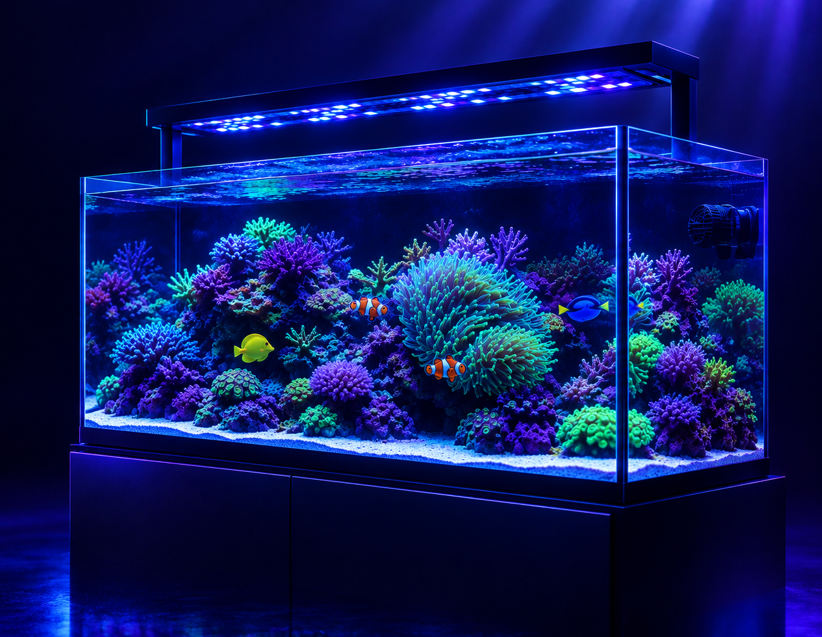
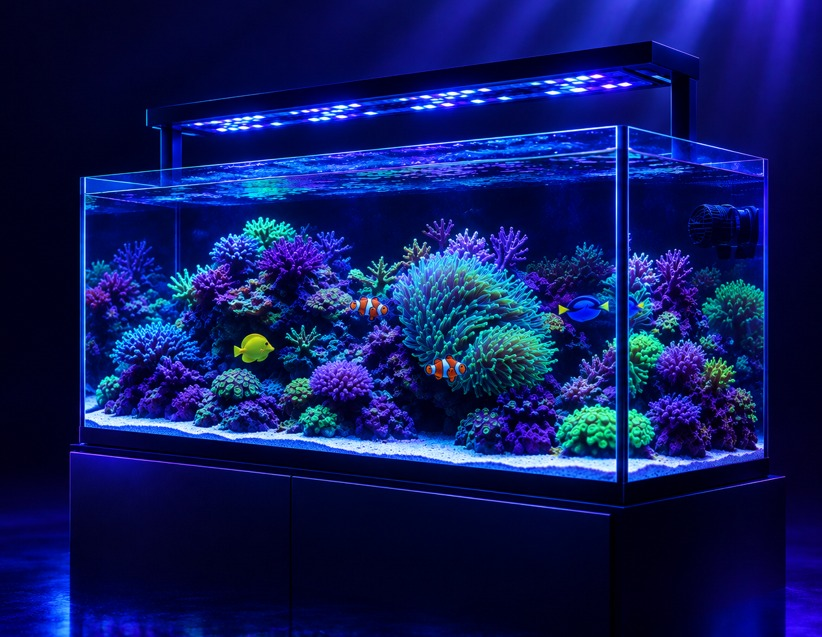
Descrição ao clicar na imagem
Quando clicar em cima das imagens aparece a descrição de cada um.

diff --git a/index.html b/index.html
@@ -26,7 +26,7 @@
       --text-white: #ffffff;     /* Texto Principal Branco */
       --text-gray: #a0a0a0;      /* Texto Secundário Cinza */
       --font-serif: 'Georgia', serif;
-      --font-sans: 'Georgia', sans-serif;
+      --font-sans: 'Montserrat', Arial, sans-serif;
     }
 
     * {
@@ -202,7 +202,7 @@
     }
 
     /* ==========================================
-       GALERIA DE PEIXES E CORAIS
+       GALERIA: TUDO PARA SEU AQUÁRIO MARINHO
        ========================================== */
     .gallery-section {
       max-width: 1100px;
@@ -232,16 +232,22 @@
     }
 
     .gallery-card {
+      display: block;
       background-color: var(--card-bg);
       border-radius: 8px;
       overflow: hidden;
       border: 1px solid rgba(255, 255, 255, 0.05);
-      transition: transform 0.3s ease;
+      transition: transform 0.3s ease, border-color 0.3s ease;
     }
 
     .gallery-card:hover {
       transform: translateY(-5px);
       border-color: var(--accent-blue);
+    }
+
+    .gallery-card:focus-visible {
+      outline: 2px solid var(--accent-blue);
+      outline-offset: 3px;
     }
 
     .gallery-card img {
@@ -269,6 +275,27 @@
       font-size: 1.1rem;
       color: var(--text-white);
       margin-top: 5px;
+    }
+
+    .gallery-desc {
+      font-size: 0.85rem;
+      color: var(--text-gray);
+      line-height: 1.5;
+      margin-top: 8px;
+    }
+
+    .gallery-more {
+      display: inline-block;
+      margin-top: 12px;
+      font-size: 0.8rem;
+      font-weight: 700;
+      color: var(--accent-blue);
+      letter-spacing: 0.5px;
+      transition: color 0.3s ease;
+    }
+
+    .gallery-card:hover .gallery-more {
+      color: #60a5fa;
     }
 
     /* ==========================================
@@ -469,7 +496,33 @@
         padding: 25px;
       }
     }
-  </style>
+  
+    button.gallery-card { width:100%; color:inherit; font:inherit; cursor:pointer; text-align:inherit; }
+    .gallery-info {display:block;} .gallery-tag,.gallery-name,.gallery-desc {display:block;}
+    .gallery-card {display:flex!important; flex-direction:column;} .gallery-info {flex:1;}
+    .gallery-tag,.gallery-more {color:#78b6ff;} .gallery-desc {color:#b9c3d1;}
+    button.dot {border:0;padding:0;} a:focus-visible,button:focus-visible {outline:3px solid #8bc4ff;outline-offset:4px;}
+    .top-header {padding-left:190px;padding-right:190px;}
+    .product-dialog {background:#101722;color:#f4f7fc;border:1px solid #334155;border-radius:20px;padding:0;width:min(880px,calc(100% - 28px));max-height:calc(100dvh - 32px);margin:auto;box-shadow:0 24px 90px #000a;}
+    .product-dialog::backdrop {background:#000b;backdrop-filter:blur(5px);}
+    body.dialog-open {overflow:hidden;}
+    .dialog-header {position:sticky;top:0;z-index:1;background:#101722;display:flex;gap:16px;align-items:center;justify-content:space-between;padding:18px 24px;border-bottom:1px solid #ffffff18;}
+    .dialog-header span {color:#8bc4ff;font-size:.8rem;letter-spacing:.08em;text-transform:uppercase;}
+    .dialog-close {border:1px solid #506076;background:#1c293c;color:white;padding:10px 16px;border-radius:24px;cursor:pointer;font:inherit;flex-shrink:0;}
+    .dialog-content {display:grid;grid-template-columns:minmax(0,.85fr) minmax(0,1.15fr);gap:28px;padding:26px;}
+    .dialog-image {width:100%;max-height:380px;object-fit:cover;border-radius:12px;background:#050505;}
+    .dialog-copy {min-width:0;} .dialog-copy h2 {font-family:var(--font-serif);font-size:1.75rem;line-height:1.25;margin-bottom:16px;}
+    .dialog-copy p {color:#c8d3e2;margin-bottom:16px;} .dialog-copy h3 {font-size:.94rem;margin:20px 0 10px;}
+    .dialog-copy ul {padding-left:20px;color:#c8d3e2;} .dialog-copy li {margin:8px 0;}
+    .dialog-note {background:#17263a;border-left:3px solid #71b5ff;border-radius:6px;padding:12px;font-size:.82rem;margin-top:20px;}
+    .dialog-contact {display:inline-flex;align-items:center;justify-content:center;margin-top:8px;padding:12px 18px;background:#2563eb;color:white;border-radius:24px;font-size:.9rem;font-weight:600;}
+    .gallery-card img {background:#0b192b;} .contact-note {color:#b6c1d1;font-size:.8rem;}
+    @media(max-width:768px){.top-header {padding:16px;}.about-box{padding:24px;}.floating-buttons{right:14px;bottom:14px;}.dialog-content {grid-template-columns:1fr;padding:18px;gap:20px;}.dialog-image{max-height:230px;}.dialog-header{padding:14px 18px;}.gallery-grid {grid-template-columns:repeat(2,minmax(0,1fr));gap:12px;}.gallery-card img{height:170px;}.gallery-info{padding:14px 10px;}.gallery-name{font-size:1rem;}.gallery-desc{font-size:.8rem;}.hero-carousel{min-height:300px;}}
+    @media(max-width:420px){.gallery-grid{grid-template-columns:1fr;}.gallery-card img{height:230px;}}
+    @media(prefers-reduced-motion:reduce){*,*::before,*::after{transition:none!important;animation:none!important;scroll-behavior:auto!important;}}
+
+.gallery-card[data-product="racoes"] img {object-fit:contain;background:#08051e;}
+</style>
 </head>
 <body>
 
@@ -489,48 +542,56 @@
 
     <!-- Indicadores do Slider -->
     <div class="carousel-dots">
-      <div class="dot active" onclick="setSlide(0)"></div>
-      <div class="dot" onclick="setSlide(1)"></div>
+      <button type="button" class="dot active" onclick="setSlide(0)" aria-label="Mostrar primeira imagem" aria-pressed="true"></button>
+      <button type="button" class="dot" onclick="setSlide(1)" aria-label="Mostrar segunda imagem" aria-pressed="false"></button>
     </div>
   </section>
 
-  <!-- GALERIA DE EXPOSIÇÃO -->
-  <section class="gallery-section">
+  <!-- TUDO PARA SEU AQUÁRIO MARINHO (cada cartão abre detalhes nesta página) -->
+  <section class="gallery-section" id="produtos">
     <h2 class="section-title">Tudo para seu Aquário Marinho</h2>
     <p class="section-subtitle">Confira alguns produtos selecionados pela One Fish</p>
 
     <div class="gallery-grid">
-      <div class="gallery-card">
-        <img src="imagens/coral 2.jpeg" alt="Coral Hammer">
-        <div class="gallery-info">
-          <span class="gallery-tag">CORAIS</span>
-          <h3 class="gallery-name">Coral Torch Gold Tip</h3>
-        </div>
-      </div>
+      <button type="button" class="gallery-card" data-product="corais" aria-haspopup="dialog" aria-controls="product-dialog">
+        <img src="imagens/coral 2.jpeg" alt="Corais">
+        <span class="gallery-info">
+          <span class="gallery-tag">Corais</span>
+          <span class="gallery-name">Coral Torch Gold Tip</span>
+          <span class="gallery-desc">Um destaque de cor e movimento para a composição do seu aquário marinho.</span>
+          <span class="gallery-more">Ver detalhes <span aria-hidden="true">＋</span></span>
+        </span>
+      </button>
 
-      <div class="gallery-card">
-        <img src="imagens/peixe 1.jpeg" alt="Peixe Dory">
-        <div class="gallery-info">
-          <span class="gallery-tag">PEIXES MARINHOS</span>
-          <h3 class="gallery-name">Paracanthurus Hepatus (Dory)</h3>
-        </div>
-      </div>
+      <button type="button" class="gallery-card" data-product="peixes" aria-haspopup="dialog" aria-controls="product-dialog">
+        <img src="imagens/peixe 1.jpeg" alt="Peixes Marinhos">
+        <span class="gallery-info">
+          <span class="gallery-tag">Peixes Marinhos</span>
+          <span class="gallery-name">Paracanthurus hepatus (Dory)</span>
+          <span class="gallery-desc">O azul marcante do hepatus chama atenção. Conheça a espécie antes de escolher.</span>
+          <span class="gallery-more">Ver detalhes <span aria-hidden="true">＋</span></span>
+        </span>
+      </button>
 
-      <div class="gallery-card">
-        <img src="imagens/racao.png" alt="Coral Torch">
-        <div class="gallery-info">
-          <span class="gallery-tag">RAÇÕES</span>
-          <h3 class="gallery-name">OceanTech Color Flakes</h3>
-        </div>
-      </div>
+      <button type="button" class="gallery-card" data-product="racoes" aria-haspopup="dialog" aria-controls="product-dialog">
+        <img src="imagens/racao.png" alt="Rações">
+        <span class="gallery-info">
+          <span class="gallery-tag">Rações</span>
+          <span class="gallery-name">OceanTech Color Flakes</span>
+          <span class="gallery-desc">Uma opção de alimentação em flocos para compor a rotina dos seus peixes.</span>
+          <span class="gallery-more">Ver detalhes <span aria-hidden="true">＋</span></span>
+        </span>
+      </button>
 
-      <div class="gallery-card">
-        <img src="imagens/projeto.png" alt="Peixe Anjo">
-        <div class="gallery-info">
-          <span class="gallery-tag">PROJETOS</span>
-          <h3 class="gallery-name">Sob medidas</h3>
-        </div>
-      </div>
+      <button type="button" class="gallery-card" data-product="projetos" aria-haspopup="dialog" aria-controls="product-dialog">
+        <img src="imagens/projeto.png" alt="Projetos">
+        <span class="gallery-info">
+          <span class="gallery-tag">Projetos</span>
+          <span class="gallery-name">Aquários sob medida</span>
+          <span class="gallery-desc">Seu espaço, seu estilo e um projeto pensado para a rotina de manutenção.</span>
+          <span class="gallery-more">Ver detalhes <span aria-hidden="true">＋</span></span>
+        </span>
+      </button>
     </div>
   </section>
 
@@ -549,19 +610,19 @@
     </div>
   </section>
 
-    <!-- BARRA DE DIFERENCIAIS -->
+  <!-- BARRA DE DIFERENCIAIS -->
   <section class="info-bar">
     <div class="info-container">
       <div class="info-item">
         <i class="fa-solid fa-water"></i>
         <h4>Quarentena Rigorosa</h4>
-        <p>Animais bem aclimatados e 100% saudáveis.</p>
+        <p>Consulte nossa equipe sobre a aclimatação e as condições dos animais disponíveis.</p>
       </div>
 
       <div class="info-item">
         <i class="fa-solid fa-truck-fast"></i>
         <h4>Envio Especializado</h4>
-        <p>Embalagens térmicas para transporte seguro em todo o Brasil.</p>
+        <p>Consulte a disponibilidade de envio, as regiões atendidas e as condições de transporte.</p>
       </div>
 
       <div class="info-item">
@@ -576,9 +637,9 @@
   <section class="contact-section">
     <div class="contact-box">
       <h2 class="section-title">Entre em Contato</h2>
-      <p class="section-subtitle">Preencha o formulário abaixo e entraremos em contato com você</p>
+      <p class="section-subtitle">Preencha os campos para preparar sua mensagem e continuar pelo WhatsApp.</p>
 
-      <form class="contact-form" action="#" method="POST">
+      <form class="contact-form" id="contact-form">
         <div class="form-group">
           <label for="nome">Nome Completo</label>
           <input type="text" id="nome" name="nome" placeholder="Seu nome" required>
@@ -599,7 +660,8 @@
           <textarea id="mensagem" name="mensagem" placeholder="Como podemos te ajudar? Conte sobre seu aquário ou projeto..." required></textarea>
         </div>
 
-        <button type="submit" class="btn-submit">Enviar Mensagem</button>
+        <p class="contact-note">Ao continuar, você abre o WhatsApp com os dados preenchidos. Revise a mensagem e envie por lá; este formulário não envia e-mail.</p>
+        <button type="submit" class="btn-submit">Continuar no WhatsApp</button>
       </form>
     </div>
   </section>
@@ -611,10 +673,10 @@
 
   <!-- BOTÕES FLUTUANTES (WHATSAPP E INSTAGRAM) -->
   <div class="floating-buttons">
-    <a href="https://www.instagram.com/onefish_aquarismo?stkn=MTNocDB0N2tieGczbw%3D%3D&utm_source=qr" target="_blank" class="float-btn btn-instagram-float" title="Instagram">
+    <a href="https://www.instagram.com/onefish_aquarismo?stkn=MTNocDB0N2tieGczbw%3D%3D&utm_source=qr" target="_blank" rel="noopener noreferrer" class="float-btn btn-instagram-float" title="Instagram" aria-label="Abrir Instagram da One Fish">
       <i class="fa-brands fa-instagram"></i>
     </a>
-    <a href="https://wa.me/5511979636052" target="_blank" class="float-btn btn-whatsapp-float" title="WhatsApp">
+    <a href="https://wa.me/5511979636052" target="_blank" rel="noopener noreferrer" class="float-btn btn-whatsapp-float" title="WhatsApp" aria-label="Conversar com a One Fish no WhatsApp">
       <i class="fa-brands fa-whatsapp"></i>
     </a>
   </div>
@@ -629,6 +691,7 @@
       slides.forEach((slide, i) => {
         slide.classList.remove('active');
         dots[i].classList.remove('active');
+        dots[i].setAttribute('aria-pressed', String(i === index));
       });
       
       slides[index].classList.add('active');
@@ -641,11 +704,21 @@
     }
 
     // Transição automática a cada 5 segundos
-    setInterval(() => {
+    if (!window.matchMedia('(prefers-reduced-motion: reduce)').matches) setInterval(() => {
       let nextSlide = (currentSlide + 1) % slides.length;
       showSlide(nextSlide);
     }, 5000);
   </script>
+
+
+  <dialog id="product-dialog" class="product-dialog" aria-labelledby="product-title" aria-describedby="product-description">
+    <header class="dialog-header"><span id="product-category"></span><button type="button" class="dialog-close" id="close-product" aria-label="Fechar detalhes do produto">Fechar ×</button></header>
+    <div class="dialog-content">
+      <img id="product-image" class="dialog-image" alt="">
+      <div class="dialog-copy"><h2 id="product-title"></h2><p id="product-description"></p><h3>Conheça melhor</h3><ul id="product-points"></ul><p class="dialog-note" id="product-note"></p><a id="product-contact" class="dialog-contact" target="_blank" rel="noopener noreferrer">Consultar pelo WhatsApp ↗</a></div>
+    </div>
+  </dialog>
+  <script src="produtos.js"></script>
 
 </body>
 </html>

diff --git a/produtos.js b/produtos.js
@@ -1,0 +1,62 @@
+/* Textos dos cartões: edite aqui para atualizar os detalhes. */
+(() => {
+  'use strict';
+  const products = {
+    corais: {
+      category: 'Corais', title: 'Coral Torch Gold Tip', image: 'imagens/coral 2.jpeg',
+      description: 'Cor, textura e movimento em um dos destaques do seu aquário marinho. Conheça o exemplar disponível e converse com a One Fish para avaliar como ele se encaixa no seu projeto.',
+      points: ['Observe com a equipe a coloração, o tamanho e as características do exemplar disponível.', 'Considere o espaço do aquário e a compatibilidade com os animais que você já possui.', 'Peça orientação sobre posicionamento e cuidados antes da aquisição.'],
+      note: 'A imagem é uma referência de apresentação. Confirme a identificação, as características do exemplar, o preço e a disponibilidade com a loja.'
+    },
+    peixes: {
+      category: 'Peixes marinhos', title: 'Paracanthurus hepatus (Dory)', image: 'imagens/peixe 1.jpeg',
+      description: 'Conhecido pelo azul intenso e pelo contraste com a cauda amarela, o hepatus é uma presença marcante no aquário marinho. A escolha deve considerar as necessidades da espécie e a estrutura do seu aquário.',
+      points: ['Informe à equipe as dimensões do seu aquário e os animais que já vivem nele.', 'Converse sobre espaço, alimentação e convivência antes de decidir.', 'Consulte o tamanho do exemplar disponível e as orientações para sua chegada.'],
+      note: 'A aparência não é o único critério de escolha. Confirme a adequação da espécie ao seu aquário, além do preço e da disponibilidade.'
+    },
+    racoes: {
+      category: 'Rações', title: 'OceanTech Color Flakes', image: 'imagens/racao.png',
+      description: 'Uma opção em flocos para compor a alimentação dos seus peixes. Na hora de escolher, confira se a formulação é indicada para as espécies que você mantém e para a rotina do seu aquário.',
+      points: ['Confira no rótulo a indicação de uso, a composição e as instruções do fabricante.', 'Consulte as apresentações disponíveis e a validade do produto.', 'Ajuste a quantidade oferecida conforme a orientação do rótulo e as necessidades dos animais.'],
+      note: 'Confirme a embalagem e as especificações com a loja. A apresentação da imagem pode diferir do item em estoque.'
+    },
+    projetos: {
+      category: 'Projetos', title: 'Aquários sob medida', image: 'imagens/projeto.png',
+      description: 'Um aquário pensado para o seu espaço e para a experiência que você deseja criar. Converse com a One Fish sobre suas ideias para definir as possibilidades do projeto e solicitar um orçamento.',
+      points: ['Compartilhe as medidas do local e referências do estilo que você procura.', 'Converse sobre equipamentos, acesso para manutenção e organização do espaço.', 'Combine o escopo, os materiais, os prazos e as condições antes de contratar.'],
+      note: 'Cada projeto é avaliado individualmente. A imagem é ilustrativa; itens incluídos, instalação, entrega e valores dependem do orçamento aprovado.'
+    }
+  };
+  const dialog = document.getElementById('product-dialog');
+  let opener;
+  const fill = (id, text) => { document.getElementById(id).textContent = text; };
+  document.querySelectorAll('[data-product]').forEach(button => {
+    button.addEventListener('click', () => {
+      const p = products[button.dataset.product];
+      if (!p) return;
+      opener = button;
+      fill('product-title', p.title); fill('product-description', p.description);
+      fill('product-category', p.category); fill('product-note', p.note);
+      const image = document.getElementById('product-image');
+      image.src = p.image; image.alt = p.title;
+      const list = document.getElementById('product-points');
+      list.replaceChildren(...p.points.map(text => { const li = document.createElement('li'); li.textContent = text; return li; }));
+      document.getElementById('product-contact').href = 'https://wa.me/5511979636052?text=' + encodeURIComponent('Olá, One Fish! Gostaria de mais informações sobre ' + p.title + '.');
+      dialog.showModal(); dialog.scrollTop = 0;
+      document.body.classList.add('dialog-open');
+      document.getElementById('close-product').focus();
+    });
+  });
+  document.getElementById('close-product').addEventListener('click', () => dialog.close());
+  let backdropDown = false;
+  const outside = event => { const r = dialog.getBoundingClientRect(); return event.clientX < r.left || event.clientX > r.right || event.clientY < r.top || event.clientY > r.bottom; };
+  dialog.addEventListener('pointerdown', event => { backdropDown = event.target === dialog && outside(event); });
+  dialog.addEventListener('click', event => { if (backdropDown && event.target === dialog && outside(event)) dialog.close(); backdropDown = false; });
+  dialog.addEventListener('close', () => { document.body.classList.remove('dialog-open'); if (opener) opener.focus(); });
+  document.getElementById('contact-form').addEventListener('submit', event => {
+    event.preventDefault();
+    const data = new FormData(event.currentTarget);
+    const text = `Olá, One Fish!\nNome: ${data.get('nome')}\nE-mail: ${data.get('email')}\nTelefone: ${data.get('telefone')}\n\n${data.get('mensagem')}`;
+    window.open('https://wa.me/5511979636052?text=' + encodeURIComponent(text), '_blank', 'noopener,noreferrer');
+  });
+})();
